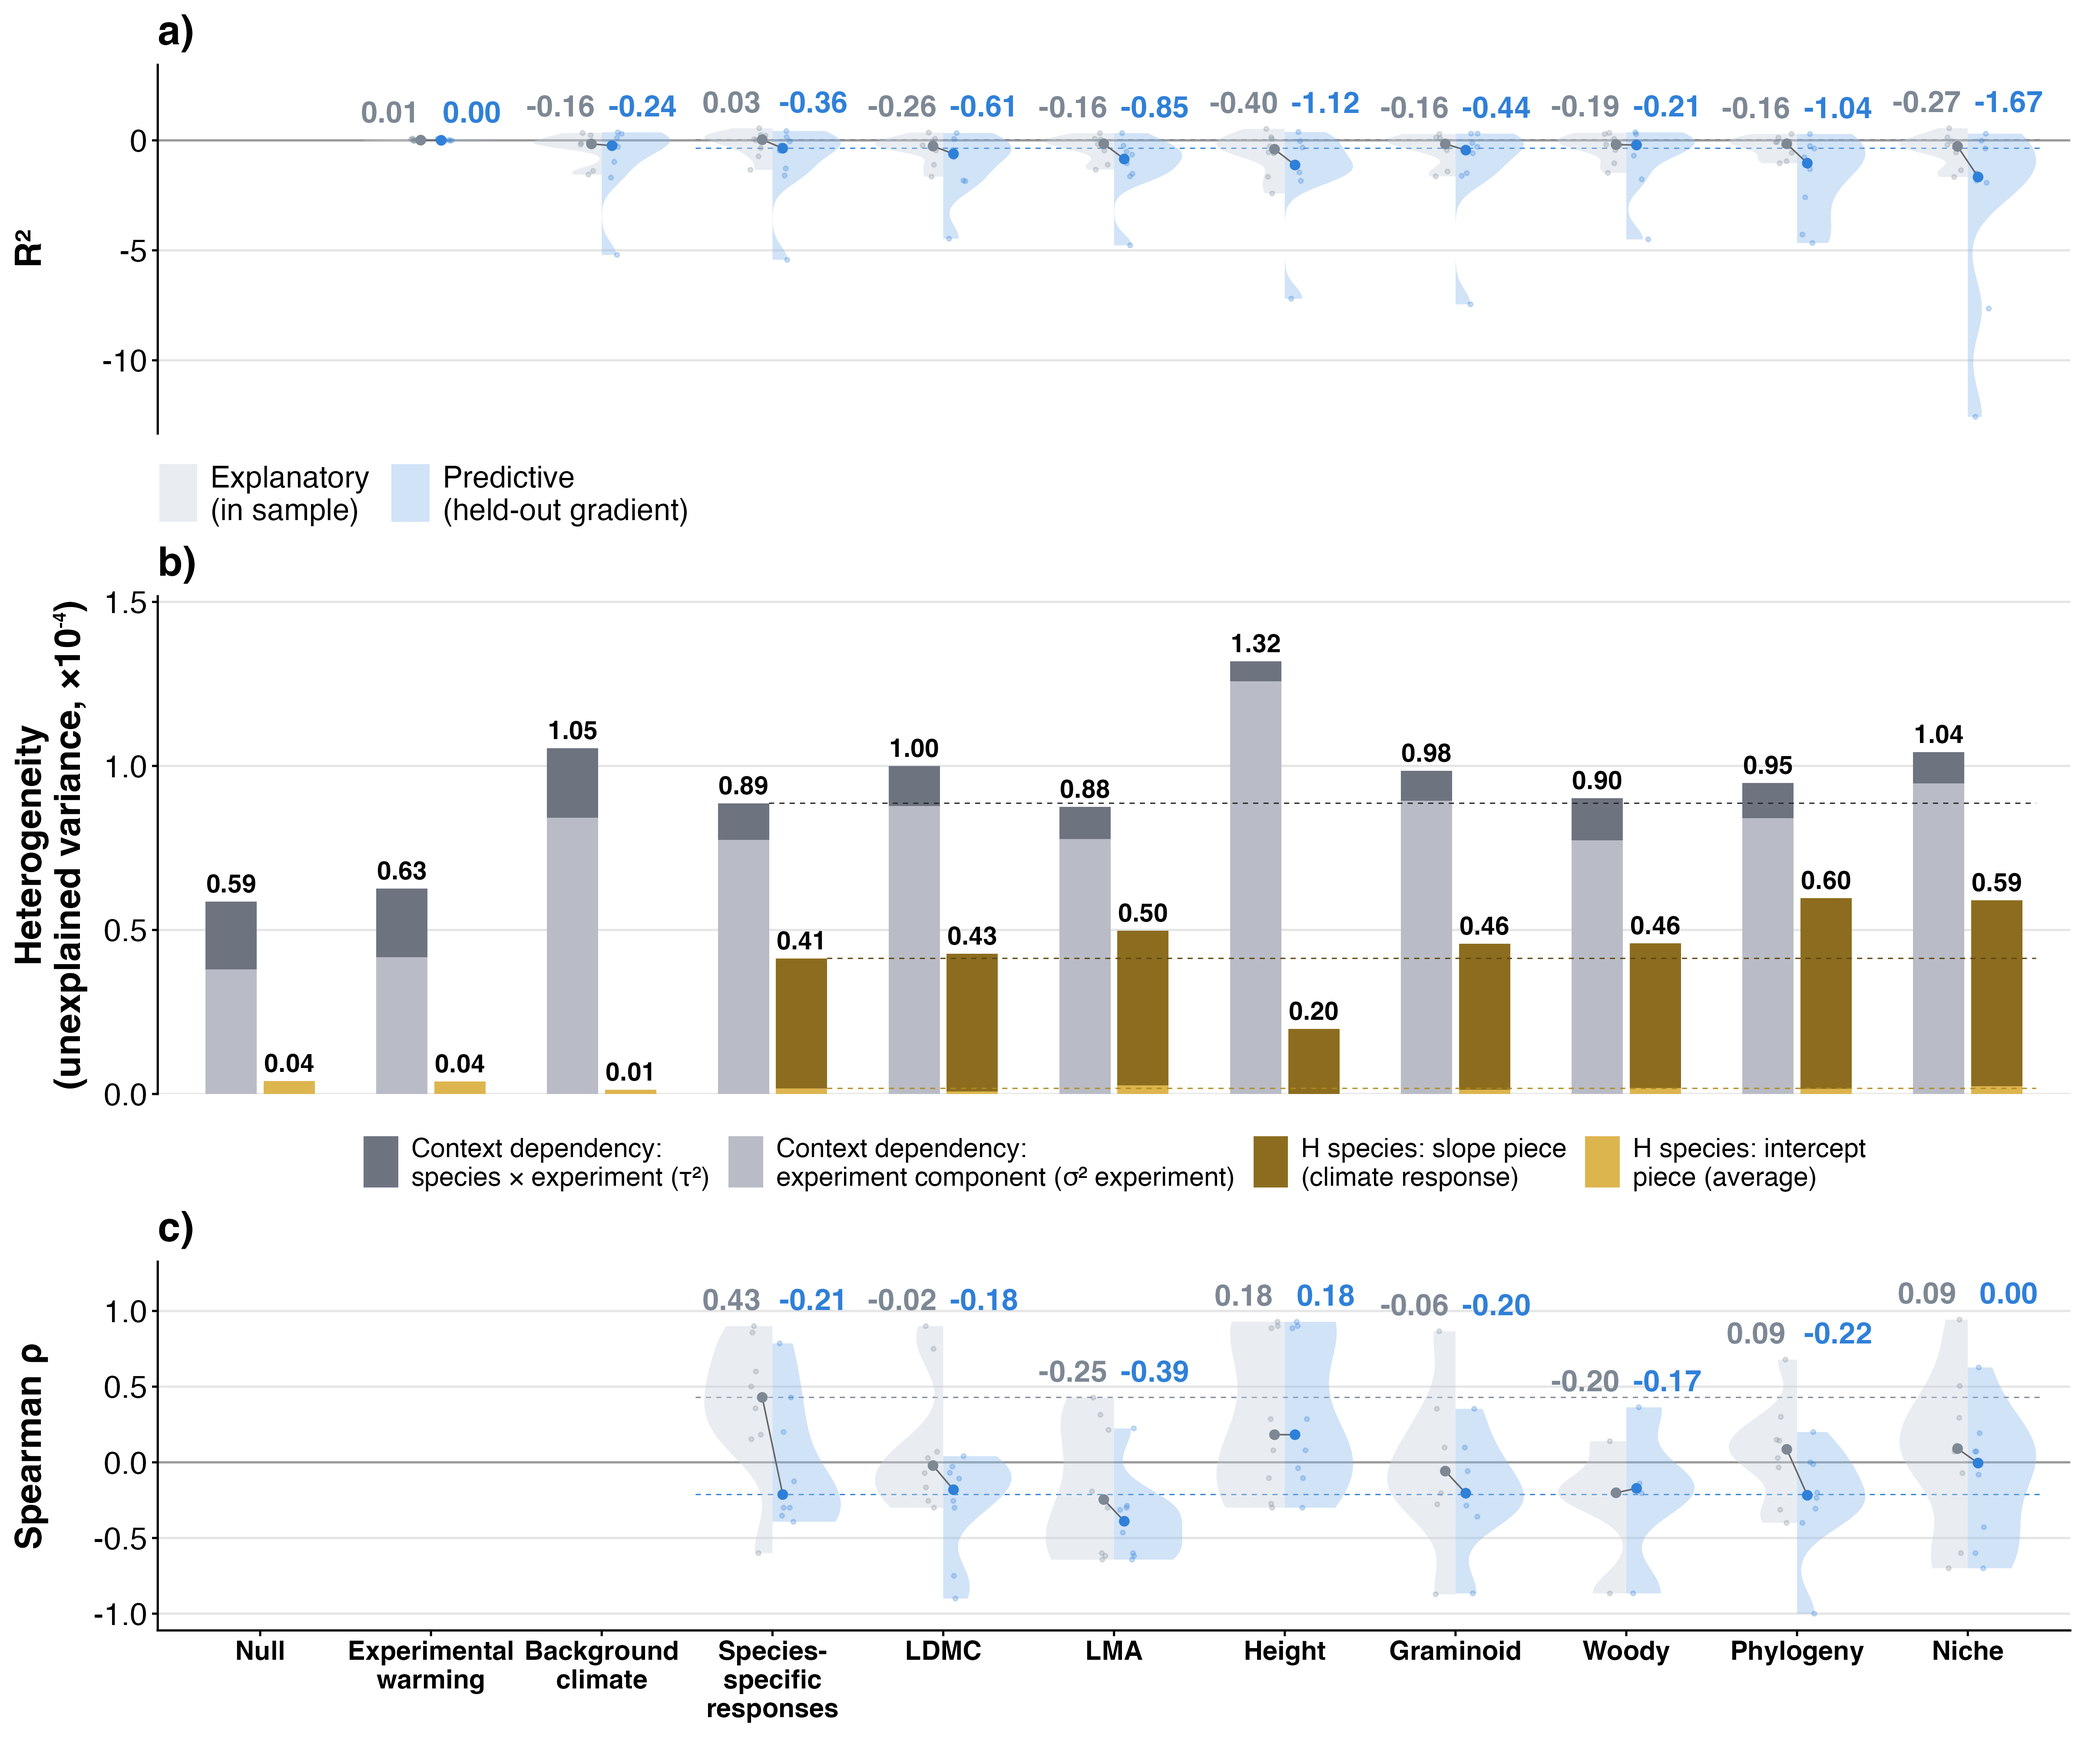
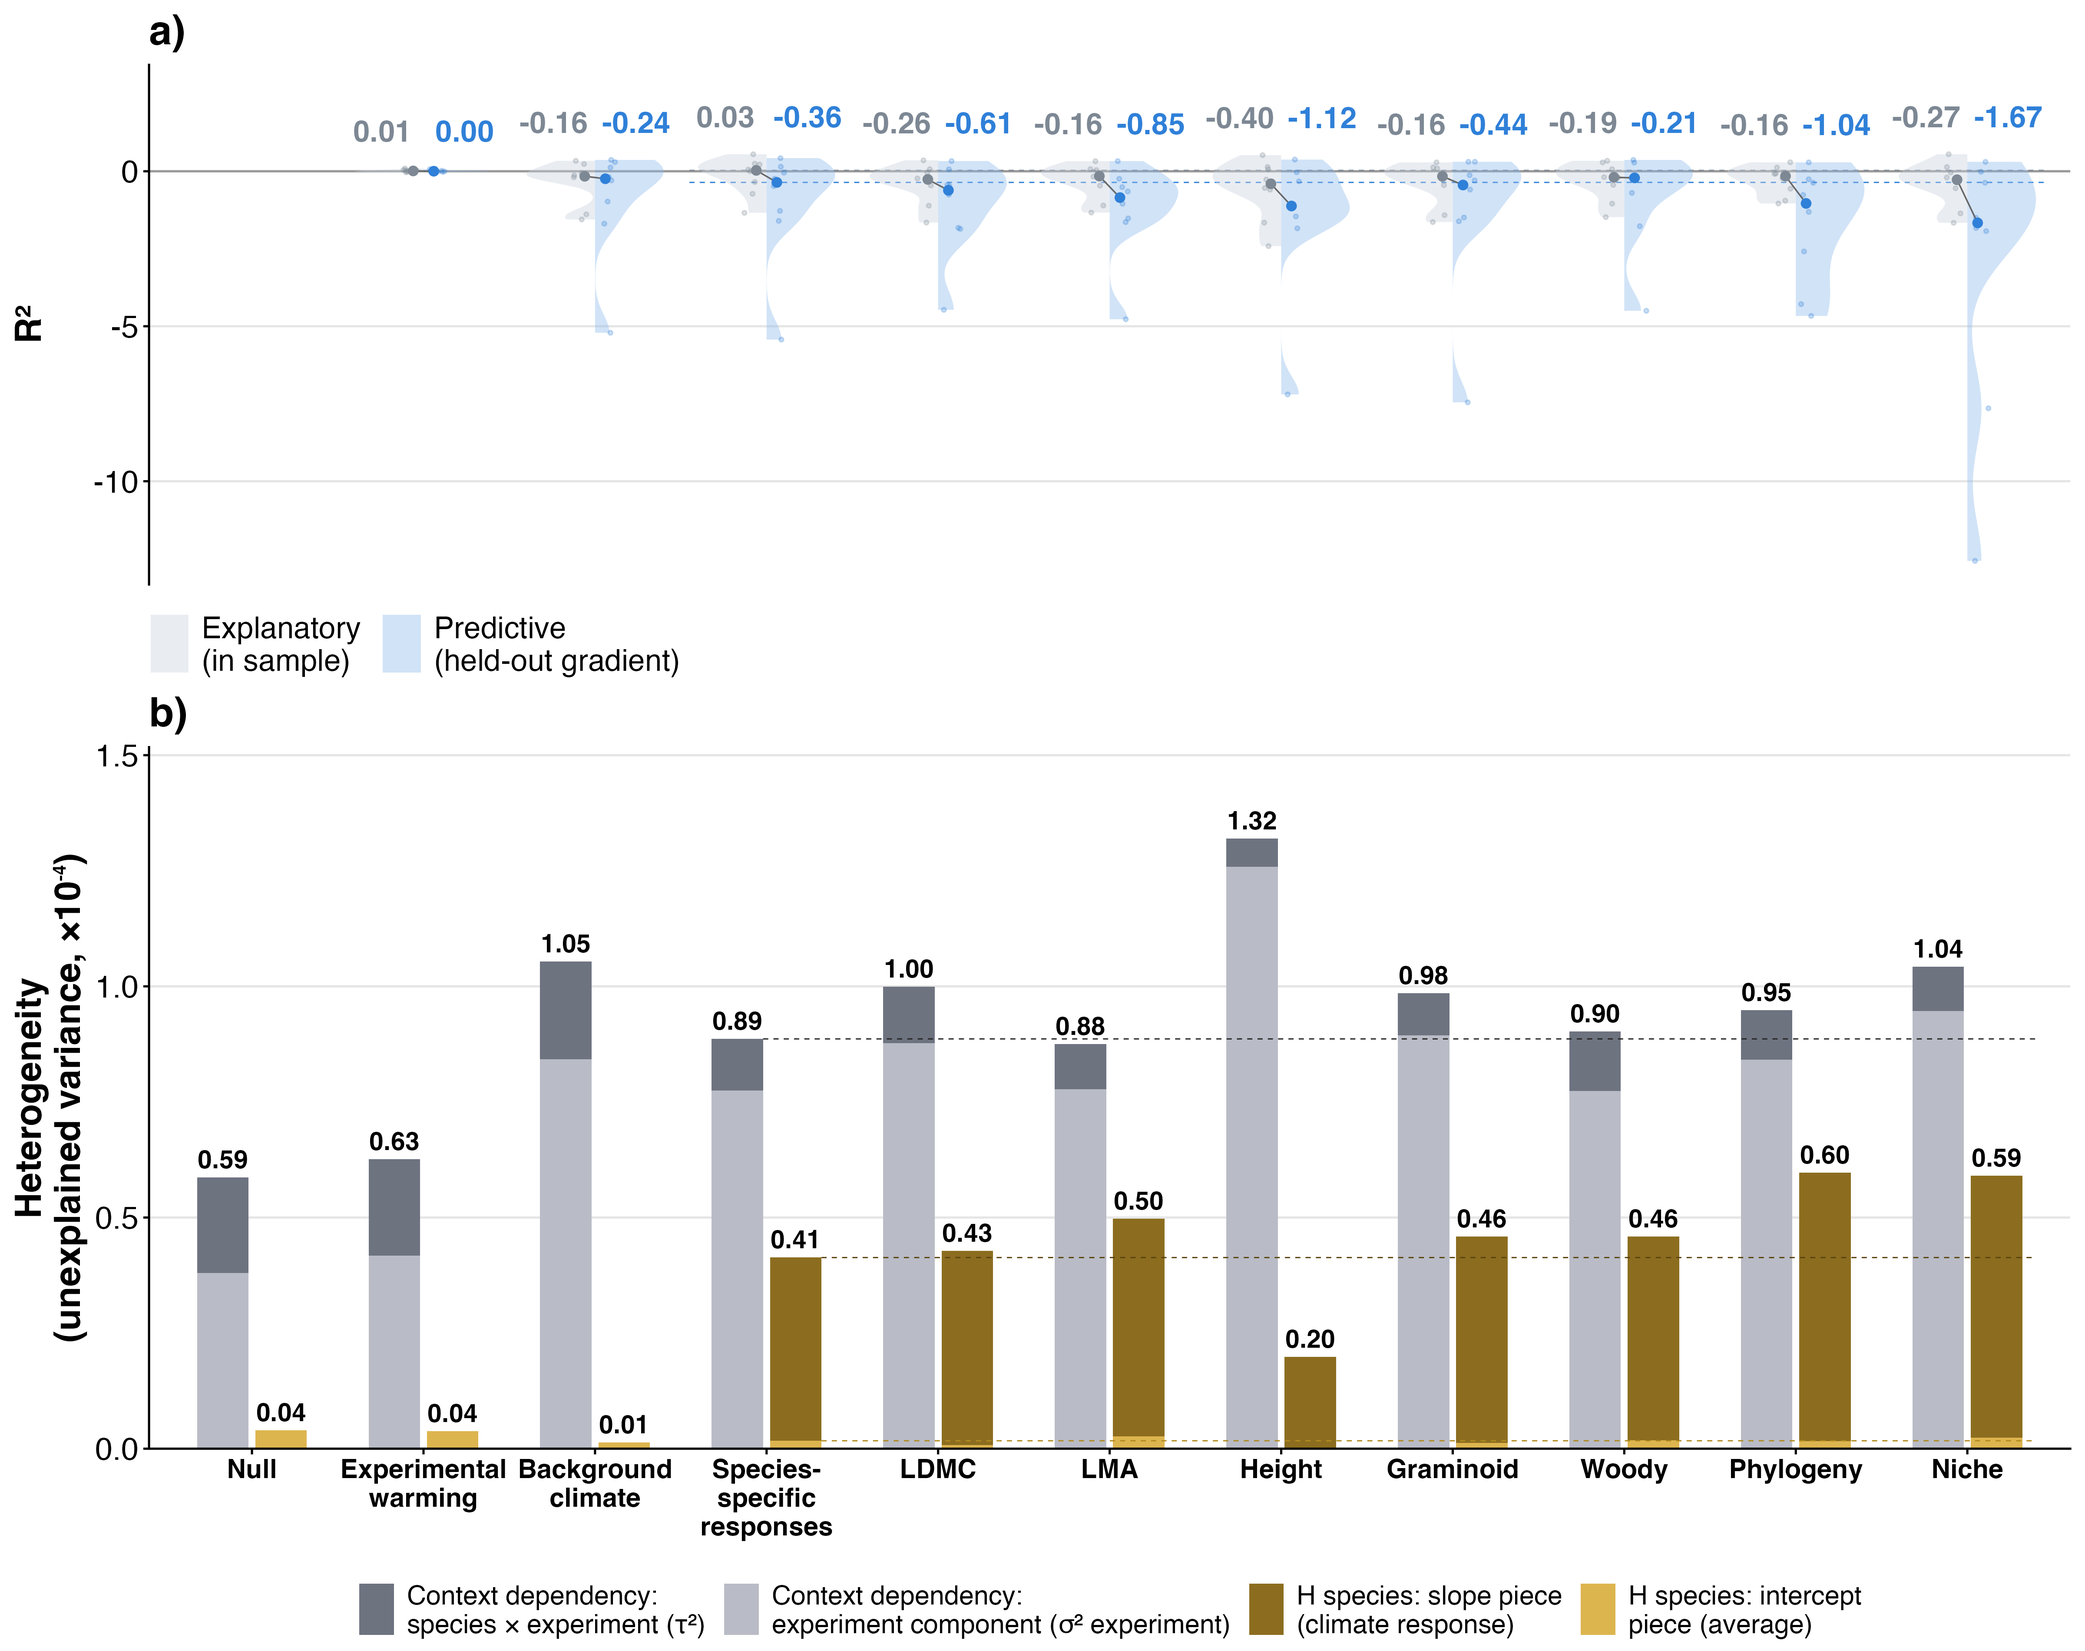
step 16: Fig S19 without Spearman (R² and raw heterogeneity, as Fig 6)

diff --git a/reports/07d_ladder_predict.md b/reports/07d_ladder_predict.md
@@ -76,7 +76,7 @@ Every held-out species had training data: TRUE.
 
 ![Fig S19, colonizer performance and raw heterogeneity](../figures/appendix/figS19.png)
 
-Fig S19 a) and c) as Fig 6 a) and Fig S12 a): half violins of the 8 scored gradients, explanatory (grey) beside predictive (blue), medians written in; R² against the Null on that gradient. No skill row. Experimental warming and Background climate have no Spearman (one prediction per experiment). Fig S19 b) is the raw heterogeneity of each model fitted in step 07c (×10⁻⁴), as Fig 6 b).
+Fig S19 a) as Fig 6 a): half violins of the 8 scored gradients, explanatory (grey) beside predictive (blue), medians written in; R² against the Null on that gradient. No Spearman row (Bills, 13 Nov; the colonizers' Spearman is in Fig S21 and the table above) and no skill row. Fig S19 b) is the raw heterogeneity of each model fitted in step 07c (×10⁻⁴), as Fig 6 b).
 
 ![Fig S21, colonizers per gradient](../figures/appendix/figS21.png)
 
@@ -273,4 +273,4 @@ Fig S19 a) and c) as Fig 6 a) and Fig S12 a): half violins of the 8 scored gradi
 - The colonizer ladder predicted on the residents' reduction (Bills, 2 Nov).
 - Property folds warm-started from the same fold's Species-specific responses fit with optim BFGS (Bills, 7 Nov, as steps 05 and 06).
 - An R² below −100 is taken out of the R² row and the medians and listed (Bills, 2 Nov).
-- Without abundance (Bills, 7 and 8 Nov): Fig S19 shows R², the raw heterogeneity of step 07c and Spearman; the change in unexplained variation is Fig S20 (step 07c).
+- Without abundance (Bills, 7, 8 and 13 Nov): Fig S19 shows R² and the raw heterogeneity of step 07c, as Fig 6, without Spearman; the change in unexplained variation is Fig S20 (step 07c).

diff --git a/README.md b/README.md
@@ -325,7 +325,7 @@ strength <- emmeans::emmeans(m, ~ species, at = list(year = years_3_on), df = df
 
 ![Figure S19](figures/appendix/figS19.png)
 
-**Figure S19.** How well each colonizer model explains colonizer strength, and how well it predicts it for an unseen gradient. As Figure 6 and Figure S12, for the 110 colonizer effects of 27 species: (a) R² against the Null model on the same gradient, (b) the heterogeneity left unexplained by each model (×10⁻⁴) and (c) Spearman's rank correlation, (a, c) on the 8 gradients with at least five effects, in sample (grey) and held out (blue). There is no loser/winner skill, since colonizers have no losers. An R² below −100 (Woody at CH_Lavey) is left out of panel a; any fold that did not converge would be missing and is listed in the 07d report.
+**Figure S19.** How well each colonizer model explains colonizer strength, and how well it predicts it for an unseen gradient. As Figure 6, for the 110 colonizer effects of 27 species: (a) R² against the Null model on the same gradient, on the 8 gradients with at least five effects, in sample (grey) and held out (blue), and (b) the heterogeneity left unexplained by each model (×10⁻⁴). Spearman's rank correlation is in Figure S21; there is no loser/winner skill, since colonizers have no losers. An R² below −100 (Woody at CH_Lavey) is left out of panel a; any fold that did not converge would be missing and is listed in the 07d report.
 
 ![Figure S20](figures/appendix/figS20.png)
 

diff --git a/reports/10_figures.md b/reports/10_figures.md
@@ -101,7 +101,7 @@ Median over the experiments with modelled residents: net change -6.1 points; med
 | Fig S16 | figures/appendix/figS16.png | Random forest beside metafor, residents | step 06b |
 | Fig S17 | figures/appendix/figS17.png | Colonizer strength from year 3 against all years | step 07a |
 | Fig S18 | figures/appendix/figS18.png | Coefficients, colonizers | step 07c |
-| Fig S19 | figures/appendix/figS19.png | R², raw heterogeneity and Spearman of the colonizers' models | steps 07c, 07d |
+| Fig S19 | figures/appendix/figS19.png | R² and raw heterogeneity of the colonizers' models | steps 07c, 07d |
 | Fig S20 | figures/appendix/figS20.png | Change in unexplained variation at each model comparison, colonizers | step 07c |
 | Fig S21 | figures/appendix/figS21.png | Metrics per gradient, colonizers | step 07d |
 | Fig S22 | figures/appendix/figS22.png | Random forest beside metafor, colonizers | step 07e |
